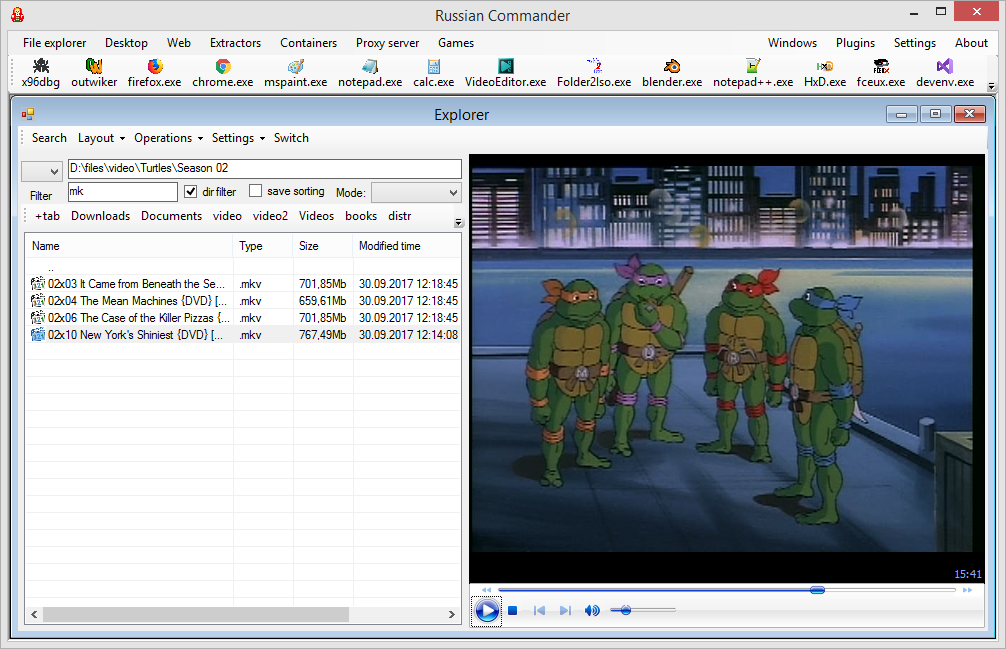
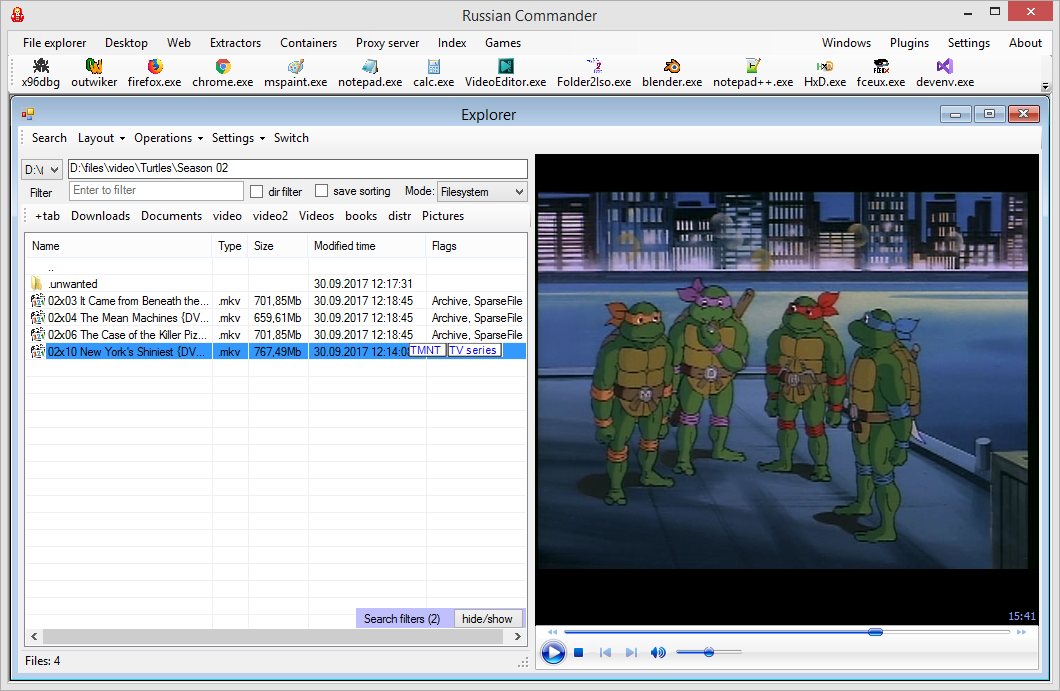
..

diff --git a/commander/FileListControl.Designer.cs b/commander/FileListControl.Designer.cs
@@ -50,6 +50,7 @@
             this.openInImageViewerToolStripMenuItem1 = new System.Windows.Forms.ToolStripMenuItem();
             this.openInTextEditorToolStripMenuItem = new System.Windows.Forms.ToolStripMenuItem();
             this.indexToolStripMenuItem = new System.Windows.Forms.ToolStripMenuItem();
+            this.imagesDeduplicationsToolStripMenuItem = new System.Windows.Forms.ToolStripMenuItem();
             this.newToolStripMenuItem = new System.Windows.Forms.ToolStripMenuItem();
             this.folderToolStripMenuItem = new System.Windows.Forms.ToolStripMenuItem();
             this.txtFileToolStripMenuItem = new System.Windows.Forms.ToolStripMenuItem();
@@ -79,7 +80,6 @@
             this.statusStrip1 = new System.Windows.Forms.StatusStrip();
             this.toolStripStatusLabel1 = new System.Windows.Forms.ToolStripStatusLabel();
             this.panel1 = new System.Windows.Forms.Panel();
-            this.watermark1 = new commander.Watermark();
             this.checkBox2 = new System.Windows.Forms.CheckBox();
             this.toolStrip1 = new System.Windows.Forms.ToolStrip();
             this.toolStripButton1 = new System.Windows.Forms.ToolStripButton();
@@ -92,7 +92,7 @@
             this.panel3 = new System.Windows.Forms.Panel();
             this.contextMenuStrip1 = new System.Windows.Forms.ContextMenuStrip(this.components);
             this.removeTabToolStripMenuItem = new System.Windows.Forms.ToolStripMenuItem();
-            this.imagesDeduplicationsToolStripMenuItem = new System.Windows.Forms.ToolStripMenuItem();
+            this.watermark1 = new commander.Watermark();
             this.contextMenuStrip2.SuspendLayout();
             this.tableLayoutPanel1.SuspendLayout();
             this.statusStrip1.SuspendLayout();
@@ -174,7 +174,7 @@
             this.taToolStripMenuItem,
             this.windowsMenuToolStripMenuItem});
             this.contextMenuStrip2.Name = "contextMenuStrip2";
-            this.contextMenuStrip2.Size = new System.Drawing.Size(181, 400);
+            this.contextMenuStrip2.Size = new System.Drawing.Size(173, 378);
             this.contextMenuStrip2.Closing += new System.Windows.Forms.ToolStripDropDownClosingEventHandler(this.ContextMenuStrip2_Closing);
             this.contextMenuStrip2.Opening += new System.ComponentModel.CancelEventHandler(this.ContextMenuStrip2_Opening);
             // 
@@ -182,21 +182,21 @@
             // 
             this.executeToolStripMenuItem.Font = new System.Drawing.Font("Segoe UI", 9F, System.Drawing.FontStyle.Bold, System.Drawing.GraphicsUnit.Point, ((byte)(204)));
             this.executeToolStripMenuItem.Name = "executeToolStripMenuItem";
-            this.executeToolStripMenuItem.Size = new System.Drawing.Size(180, 22);
+            this.executeToolStripMenuItem.Size = new System.Drawing.Size(172, 22);
             this.executeToolStripMenuItem.Text = "execute";
             this.executeToolStripMenuItem.Click += new System.EventHandler(this.ExecuteToolStripMenuItem_Click);
             // 
             // openExplorerHereToolStripMenuItem
             // 
             this.openExplorerHereToolStripMenuItem.Name = "openExplorerHereToolStripMenuItem";
-            this.openExplorerHereToolStripMenuItem.Size = new System.Drawing.Size(180, 22);
+            this.openExplorerHereToolStripMenuItem.Size = new System.Drawing.Size(172, 22);
             this.openExplorerHereToolStripMenuItem.Text = "open explorer here";
             this.openExplorerHereToolStripMenuItem.Click += new System.EventHandler(this.openExplorerHereToolStripMenuItem_Click);
             // 
             // openCmdHereToolStripMenuItem
             // 
             this.openCmdHereToolStripMenuItem.Name = "openCmdHereToolStripMenuItem";
-            this.openCmdHereToolStripMenuItem.Size = new System.Drawing.Size(180, 22);
+            this.openCmdHereToolStripMenuItem.Size = new System.Drawing.Size(172, 22);
             this.openCmdHereToolStripMenuItem.Text = "open cmd here";
             this.openCmdHereToolStripMenuItem.Click += new System.EventHandler(this.openCmdHereToolStripMenuItem_Click);
             // 
@@ -213,64 +213,71 @@
             this.indexToolStripMenuItem,
             this.imagesDeduplicationsToolStripMenuItem});
             this.operationsToolStripMenuItem.Name = "operationsToolStripMenuItem";
-            this.operationsToolStripMenuItem.Size = new System.Drawing.Size(180, 22);
+            this.operationsToolStripMenuItem.Size = new System.Drawing.Size(172, 22);
             this.operationsToolStripMenuItem.Text = "operations";
             // 
             // calcMemToolStripMenuItem1
             // 
             this.calcMemToolStripMenuItem1.Name = "calcMemToolStripMenuItem1";
-            this.calcMemToolStripMenuItem1.Size = new System.Drawing.Size(187, 22);
+            this.calcMemToolStripMenuItem1.Size = new System.Drawing.Size(193, 22);
             this.calcMemToolStripMenuItem1.Text = "calc mem";
             this.calcMemToolStripMenuItem1.Click += new System.EventHandler(this.calcMemToolStripMenuItem1_Click);
             // 
             // deduplicationsToolStripMenuItem
             // 
             this.deduplicationsToolStripMenuItem.Name = "deduplicationsToolStripMenuItem";
-            this.deduplicationsToolStripMenuItem.Size = new System.Drawing.Size(187, 22);
+            this.deduplicationsToolStripMenuItem.Size = new System.Drawing.Size(193, 22);
             this.deduplicationsToolStripMenuItem.Text = "deduplications";
             this.deduplicationsToolStripMenuItem.Click += new System.EventHandler(this.deduplicationsToolStripMenuItem_Click);
             // 
             // calcMd5ToolStripMenuItem1
             // 
             this.calcMd5ToolStripMenuItem1.Name = "calcMd5ToolStripMenuItem1";
-            this.calcMd5ToolStripMenuItem1.Size = new System.Drawing.Size(187, 22);
+            this.calcMd5ToolStripMenuItem1.Size = new System.Drawing.Size(193, 22);
             this.calcMd5ToolStripMenuItem1.Text = "calc md5";
             this.calcMd5ToolStripMenuItem1.Click += new System.EventHandler(this.calcMd5ToolStripMenuItem1_Click);
             // 
             // searchToolStripMenuItem
             // 
             this.searchToolStripMenuItem.Name = "searchToolStripMenuItem";
-            this.searchToolStripMenuItem.Size = new System.Drawing.Size(187, 22);
+            this.searchToolStripMenuItem.Size = new System.Drawing.Size(193, 22);
             this.searchToolStripMenuItem.Text = "search";
             this.searchToolStripMenuItem.Click += new System.EventHandler(this.searchToolStripMenuItem_Click);
             // 
             // opeInHexToolStripMenuItem
             // 
             this.opeInHexToolStripMenuItem.Name = "opeInHexToolStripMenuItem";
-            this.opeInHexToolStripMenuItem.Size = new System.Drawing.Size(187, 22);
+            this.opeInHexToolStripMenuItem.Size = new System.Drawing.Size(193, 22);
             this.opeInHexToolStripMenuItem.Text = "open in hex";
             this.opeInHexToolStripMenuItem.Click += new System.EventHandler(this.opeInHexToolStripMenuItem_Click);
             // 
             // openInImageViewerToolStripMenuItem1
             // 
             this.openInImageViewerToolStripMenuItem1.Name = "openInImageViewerToolStripMenuItem1";
-            this.openInImageViewerToolStripMenuItem1.Size = new System.Drawing.Size(187, 22);
+            this.openInImageViewerToolStripMenuItem1.Size = new System.Drawing.Size(193, 22);
             this.openInImageViewerToolStripMenuItem1.Text = "open in image viewer";
             this.openInImageViewerToolStripMenuItem1.Click += new System.EventHandler(this.openInImageViewerToolStripMenuItem1_Click);
             // 
             // openInTextEditorToolStripMenuItem
             // 
             this.openInTextEditorToolStripMenuItem.Name = "openInTextEditorToolStripMenuItem";
-            this.openInTextEditorToolStripMenuItem.Size = new System.Drawing.Size(187, 22);
+            this.openInTextEditorToolStripMenuItem.Size = new System.Drawing.Size(193, 22);
             this.openInTextEditorToolStripMenuItem.Text = "open in text editor";
             this.openInTextEditorToolStripMenuItem.Click += new System.EventHandler(this.OpenInTextEditorToolStripMenuItem_Click);
             // 
             // indexToolStripMenuItem
             // 
             this.indexToolStripMenuItem.Name = "indexToolStripMenuItem";
-            this.indexToolStripMenuItem.Size = new System.Drawing.Size(187, 22);
+            this.indexToolStripMenuItem.Size = new System.Drawing.Size(193, 22);
             this.indexToolStripMenuItem.Text = "index";
             this.indexToolStripMenuItem.Click += new System.EventHandler(this.IndexToolStripMenuItem_Click);
+            // 
+            // imagesDeduplicationsToolStripMenuItem
+            // 
+            this.imagesDeduplicationsToolStripMenuItem.Name = "imagesDeduplicationsToolStripMenuItem";
+            this.imagesDeduplicationsToolStripMenuItem.Size = new System.Drawing.Size(193, 22);
+            this.imagesDeduplicationsToolStripMenuItem.Text = "images deduplications";
+            this.imagesDeduplicationsToolStripMenuItem.Click += new System.EventHandler(this.ImagesDeduplicationsToolStripMenuItem_Click);
             // 
             // newToolStripMenuItem
             // 
@@ -278,7 +285,7 @@
             this.folderToolStripMenuItem,
             this.txtFileToolStripMenuItem});
             this.newToolStripMenuItem.Name = "newToolStripMenuItem";
-            this.newToolStripMenuItem.Size = new System.Drawing.Size(180, 22);
+            this.newToolStripMenuItem.Size = new System.Drawing.Size(172, 22);
             this.newToolStripMenuItem.Text = "new";
             // 
             // folderToolStripMenuItem
@@ -298,7 +305,7 @@
             // deleteToolStripMenuItem
             // 
             this.deleteToolStripMenuItem.Name = "deleteToolStripMenuItem";
-            this.deleteToolStripMenuItem.Size = new System.Drawing.Size(180, 22);
+            this.deleteToolStripMenuItem.Size = new System.Drawing.Size(172, 22);
             this.deleteToolStripMenuItem.Text = "delete";
             this.deleteToolStripMenuItem.Click += new System.EventHandler(this.DeleteToolStripMenuItem_Click);
             // 
@@ -308,7 +315,7 @@
             this.isoMergeToolStripMenuItem,
             this.makeLibraryToolStripMenuItem1});
             this.libraryToolStripMenuItem.Name = "libraryToolStripMenuItem";
-            this.libraryToolStripMenuItem.Size = new System.Drawing.Size(180, 22);
+            this.libraryToolStripMenuItem.Size = new System.Drawing.Size(172, 22);
             this.libraryToolStripMenuItem.Text = "library";
             // 
             // isoMergeToolStripMenuItem
@@ -328,14 +335,14 @@
             // setTagsToolStripMenuItem
             // 
             this.setTagsToolStripMenuItem.Name = "setTagsToolStripMenuItem";
-            this.setTagsToolStripMenuItem.Size = new System.Drawing.Size(180, 22);
+            this.setTagsToolStripMenuItem.Size = new System.Drawing.Size(172, 22);
             this.setTagsToolStripMenuItem.Text = "tags";
             this.setTagsToolStripMenuItem.DropDownOpening += new System.EventHandler(this.SetTagsToolStripMenuItem_DropDownOpening);
             // 
             // addShortcutToolStripMenuItem
             // 
             this.addShortcutToolStripMenuItem.Name = "addShortcutToolStripMenuItem";
-            this.addShortcutToolStripMenuItem.Size = new System.Drawing.Size(180, 22);
+            this.addShortcutToolStripMenuItem.Size = new System.Drawing.Size(172, 22);
             this.addShortcutToolStripMenuItem.Text = "add shortcut";
             this.addShortcutToolStripMenuItem.Click += new System.EventHandler(this.AddShortcutToolStripMenuItem_Click);
             // 
@@ -348,7 +355,7 @@
             this.extractToolStripMenuItem,
             this.unmountToolStripMenuItem});
             this.isoToolStripMenuItem.Name = "isoToolStripMenuItem";
-            this.isoToolStripMenuItem.Size = new System.Drawing.Size(180, 22);
+            this.isoToolStripMenuItem.Size = new System.Drawing.Size(172, 22);
             this.isoToolStripMenuItem.Text = "iso";
             // 
             // packToolStripMenuItem
@@ -392,7 +399,7 @@
             this.zipToolStripMenuItem1,
             this.unzipToolStripMenuItem});
             this.zipToolStripMenuItem.Name = "zipToolStripMenuItem";
-            this.zipToolStripMenuItem.Size = new System.Drawing.Size(180, 22);
+            this.zipToolStripMenuItem.Size = new System.Drawing.Size(172, 22);
             this.zipToolStripMenuItem.Text = "archive";
             // 
             // zipToolStripMenuItem1
@@ -410,14 +417,14 @@
             // propertiesToolStripMenuItem
             // 
             this.propertiesToolStripMenuItem.Name = "propertiesToolStripMenuItem";
-            this.propertiesToolStripMenuItem.Size = new System.Drawing.Size(180, 22);
+            this.propertiesToolStripMenuItem.Size = new System.Drawing.Size(172, 22);
             this.propertiesToolStripMenuItem.Text = "properties";
             this.propertiesToolStripMenuItem.Click += new System.EventHandler(this.PropertiesToolStripMenuItem_Click);
             // 
             // copyPathToolStripMenuItem
             // 
             this.copyPathToolStripMenuItem.Name = "copyPathToolStripMenuItem";
-            this.copyPathToolStripMenuItem.Size = new System.Drawing.Size(180, 22);
+            this.copyPathToolStripMenuItem.Size = new System.Drawing.Size(172, 22);
             this.copyPathToolStripMenuItem.Text = "copy path";
             this.copyPathToolStripMenuItem.Click += new System.EventHandler(this.copyPathToolStripMenuItem_Click);
             // 
@@ -426,7 +433,7 @@
             this.offlineToolStripMenuItem.DropDownItems.AddRange(new System.Windows.Forms.ToolStripItem[] {
             this.addSiteToolStripMenuItem});
             this.offlineToolStripMenuItem.Name = "offlineToolStripMenuItem";
-            this.offlineToolStripMenuItem.Size = new System.Drawing.Size(180, 22);
+            this.offlineToolStripMenuItem.Size = new System.Drawing.Size(172, 22);
             this.offlineToolStripMenuItem.Text = "offline";
             // 
             // addSiteToolStripMenuItem
@@ -439,21 +446,21 @@
             // autotegToolStripMenuItem
             // 
             this.autotegToolStripMenuItem.Name = "autotegToolStripMenuItem";
-            this.autotegToolStripMenuItem.Size = new System.Drawing.Size(180, 22);
+            this.autotegToolStripMenuItem.Size = new System.Drawing.Size(172, 22);
             this.autotegToolStripMenuItem.Text = "autotag";
             this.autotegToolStripMenuItem.Click += new System.EventHandler(this.autotegToolStripMenuItem_Click);
             // 
             // taToolStripMenuItem
             // 
             this.taToolStripMenuItem.Name = "taToolStripMenuItem";
-            this.taToolStripMenuItem.Size = new System.Drawing.Size(180, 22);
+            this.taToolStripMenuItem.Size = new System.Drawing.Size(172, 22);
             this.taToolStripMenuItem.Text = "tag panel";
             this.taToolStripMenuItem.Click += new System.EventHandler(this.TaToolStripMenuItem_Click);
             // 
             // windowsMenuToolStripMenuItem
             // 
             this.windowsMenuToolStripMenuItem.Name = "windowsMenuToolStripMenuItem";
-            this.windowsMenuToolStripMenuItem.Size = new System.Drawing.Size(180, 22);
+            this.windowsMenuToolStripMenuItem.Size = new System.Drawing.Size(172, 22);
             this.windowsMenuToolStripMenuItem.Text = "windows menu";
             this.windowsMenuToolStripMenuItem.Click += new System.EventHandler(this.WindowsMenuToolStripMenuItem_Click);
             this.windowsMenuToolStripMenuItem.MouseHover += new System.EventHandler(this.WindowsMenuToolStripMenuItem_MouseHover);
@@ -493,11 +500,11 @@
             // 
             // panel1
             // 
+            this.panel1.Controls.Add(this.comboBox2);
             this.panel1.Controls.Add(this.watermark1);
             this.panel1.Controls.Add(this.checkBox2);
             this.panel1.Controls.Add(this.toolStrip1);
             this.panel1.Controls.Add(this.label2);
-            this.panel1.Controls.Add(this.comboBox2);
             this.panel1.Controls.Add(this.comboBox1);
             this.panel1.Controls.Add(this.checkBox1);
             this.panel1.Controls.Add(this.label1);
@@ -509,18 +516,6 @@
             this.panel1.Size = new System.Drawing.Size(521, 75);
             this.panel1.TabIndex = 2;
             this.panel1.Paint += new System.Windows.Forms.PaintEventHandler(this.Panel1_Paint);
-            // 
-            // watermark1
-            // 
-            this.watermark1.Anchor = ((System.Windows.Forms.AnchorStyles)(((System.Windows.Forms.AnchorStyles.Top | System.Windows.Forms.AnchorStyles.Left) 
-            | System.Windows.Forms.AnchorStyles.Right)));
-            this.watermark1.ForeColor = System.Drawing.SystemColors.GrayText;
-            this.watermark1.Hint = "Enter to filter";
-            this.watermark1.Location = new System.Drawing.Point(48, 27);
-            this.watermark1.Name = "watermark1";
-            this.watermark1.Size = new System.Drawing.Size(186, 20);
-            this.watermark1.TabIndex = 13;
-            this.watermark1.TextChanged += new System.EventHandler(this.Watermark1_TextChanged);
             // 
             // checkBox2
             // 
@@ -559,7 +554,7 @@
             // 
             this.label2.Anchor = ((System.Windows.Forms.AnchorStyles)((System.Windows.Forms.AnchorStyles.Top | System.Windows.Forms.AnchorStyles.Right)));
             this.label2.AutoSize = true;
-            this.label2.Location = new System.Drawing.Point(389, 32);
+            this.label2.Location = new System.Drawing.Point(392, 30);
             this.label2.Name = "label2";
             this.label2.Size = new System.Drawing.Size(37, 13);
             this.label2.TabIndex = 10;
@@ -584,7 +579,7 @@
             // 
             this.comboBox1.DropDownStyle = System.Windows.Forms.ComboBoxStyle.DropDownList;
             this.comboBox1.FormattingEnabled = true;
-            this.comboBox1.Location = new System.Drawing.Point(0, 7);
+            this.comboBox1.Location = new System.Drawing.Point(0, 5);
             this.comboBox1.Name = "comboBox1";
             this.comboBox1.Size = new System.Drawing.Size(42, 21);
             this.comboBox1.TabIndex = 8;
@@ -648,12 +643,17 @@
             this.removeTabToolStripMenuItem.Text = "Remove tab";
             this.removeTabToolStripMenuItem.Click += new System.EventHandler(this.removeTabToolStripMenuItem_Click);
             // 
-            // imagesDeduplicationsToolStripMenuItem
+            // watermark1
             // 
-            this.imagesDeduplicationsToolStripMenuItem.Name = "imagesDeduplicationsToolStripMenuItem";
-            this.imagesDeduplicationsToolStripMenuItem.Size = new System.Drawing.Size(193, 22);
-            this.imagesDeduplicationsToolStripMenuItem.Text = "images deduplications";
-            this.imagesDeduplicationsToolStripMenuItem.Click += new System.EventHandler(this.ImagesDeduplicationsToolStripMenuItem_Click);
+            this.watermark1.Anchor = ((System.Windows.Forms.AnchorStyles)(((System.Windows.Forms.AnchorStyles.Top | System.Windows.Forms.AnchorStyles.Left) 
+            | System.Windows.Forms.AnchorStyles.Right)));
+            this.watermark1.ForeColor = System.Drawing.SystemColors.GrayText;
+            this.watermark1.Hint = "Enter to filter";
+            this.watermark1.Location = new System.Drawing.Point(48, 27);
+            this.watermark1.Name = "watermark1";
+            this.watermark1.Size = new System.Drawing.Size(186, 20);
+            this.watermark1.TabIndex = 13;
+            this.watermark1.TextChanged += new System.EventHandler(this.Watermark1_TextChanged);
             // 
             // FileListControl
             // 
